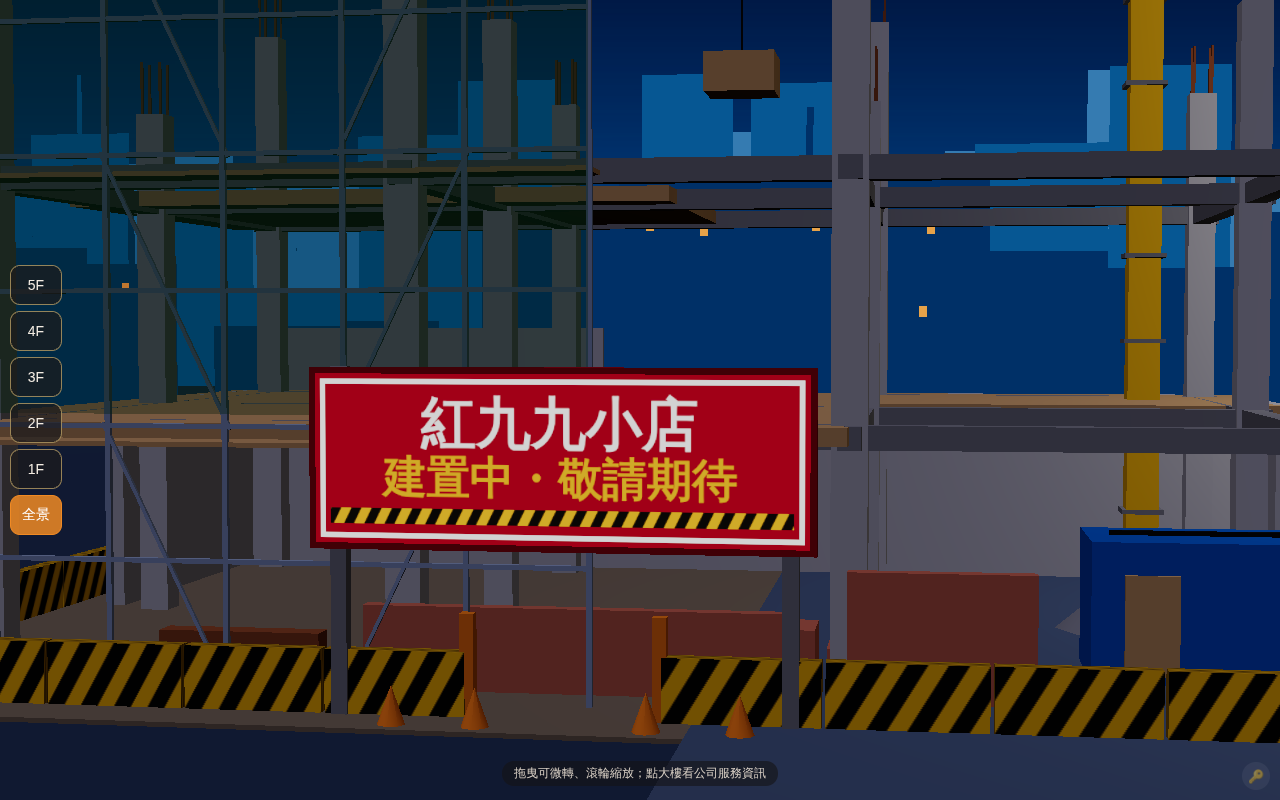
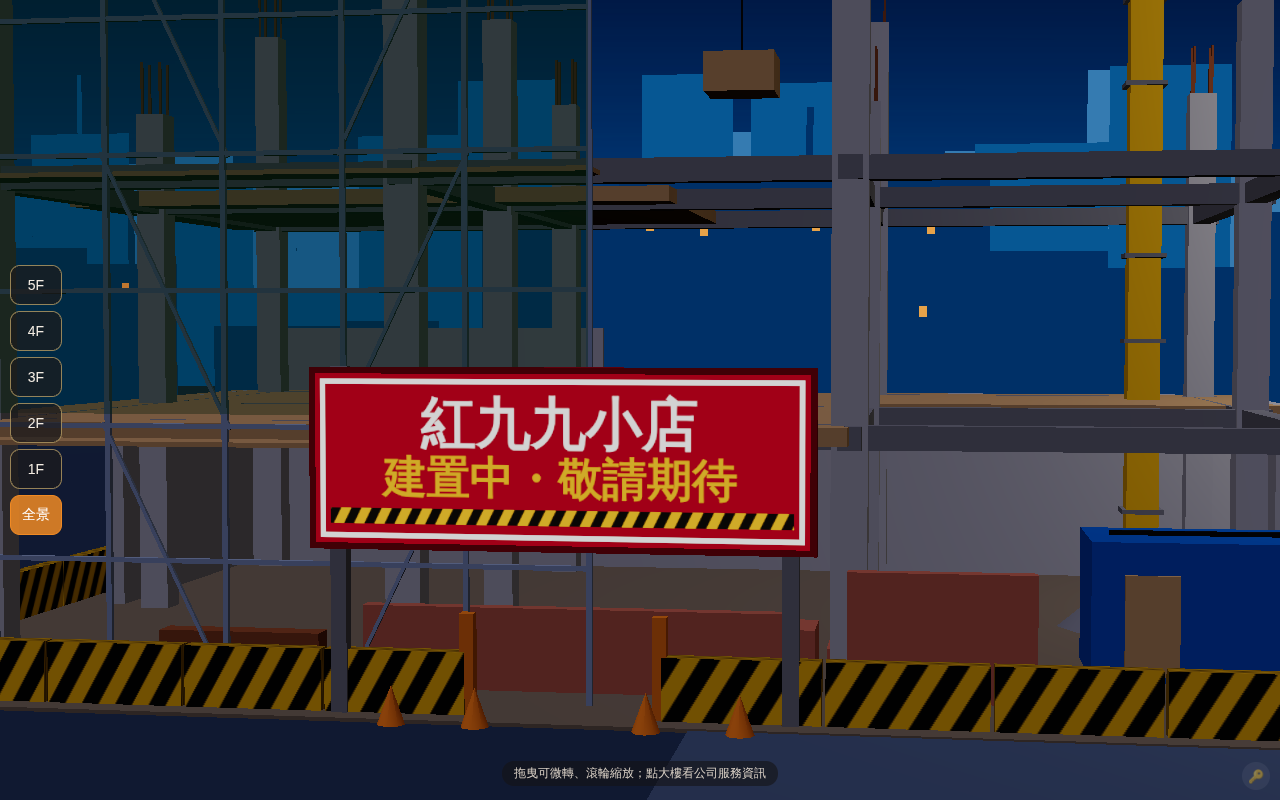
annex v0.2：通道與地墊墊高到大樓廣場上方，淡灰地面才看得見

Changed region(s): [[0.0, 0.875, 1.0, 0.9375], [0.5938, 0.6875, 0.6562, 0.8438], [0.8125, 0.7188, 0.8438, 0.8438]]

diff --git a/site/index.html b/site/index.html
@@ -553,7 +553,7 @@ function carPose(c) { c.g.position.set(c.home[0] - Math.max(0, c.d - 2), fH('1F'
     add('yel', .3, 2.4, .3, MX, y + MH + 1.7, MZ); add('blk', 1.2, 1.1, 1.2, MX + .1, y + MH - .75, MZ + .9); add('blk', .05, 5.4, .05, MX - 9, y + MH - 2.5, MZ); add('wood', 1.6, .9, 1.6, MX - 9, y + MH - 5.6, MZ);
     // 合併成每種材質一個 mesh
     const grp = new THREE.Group(); grp.name = 'ANNEX_HONG99';
-    const pad = new THREE.Mesh(B(BX1 - BX0 + .75, .08, BZ1 - BZ0 + 1.2), MT.pad); pad.position.set((BX0 - .75 + BX1) / 2, y - .17, (BZ0 + BZ1) / 2); pad.receiveShadow = true; pad.raycast = () => {}; grp.add(pad);
+    const pad = new THREE.Mesh(B(BX1 - BX0 + .75, .06, BZ1 - BZ0 + 1.2), MT.pad); pad.position.set((BX0 - .75 + BX1) / 2, y, (BZ0 + BZ1) / 2); pad.receiveShadow = true; pad.raycast = () => {}; grp.add(pad);
     Object.keys(G).forEach(k => { const m = new THREE.Mesh(mergeGeometries(G[k].map(g => { if (!g.index) return g; return g; })), MT[k]); m.castShadow = false; m.receiveShadow = true; m.raycast = () => {}; grp.add(m); });
     // 建置中看板：立在大門上方兩根柱子上
     // v0.2：「紅九九小店」字高減半（170px → 85px），「建置中・敬請期待」維持 68px；板面縮小成 7.6 × 2.6 m（每 px = 0.01 m，副標實際大小不變）
@@ -565,7 +565,7 @@ function carPose(c) { c.g.position.set(c.home[0] - Math.max(0, c.d - 2), fH('1F'
     const sb = new THREE.Mesh(B(7.8, 2.8, .16), MT.red); sb.position.set(sx, sy, sz); sb.raycast = () => {}; grp.add(sb, sign);
     [-1, 1].forEach(s => { const p = new THREE.Mesh(B(.25, sy + 1.4, .25), MT.dark); p.position.set(sx + s * 3.5, (sy + 1.4) / 2 + y - .0, sz - .2); p.raycast = () => {}; grp.add(p); });
     // 兩棟之間的通道：淡淡的普通地面（只鋪地，不放任何東西），從前到後貫通；通道只在 passcar=1 除錯時才停一台車（車身朝前後）對照寬度
-    const lane = new THREE.Mesh(B(BX1 - WALLX + 1, .08, 26), L(0xCDD3DA)); lane.position.set((BX1 + WALLX - 1) / 2, y - .17, 1.5); lane.receiveShadow = true; lane.raycast = () => {}; grp.add(lane);
+    const lane = new THREE.Mesh(B(WALLX - 1 - BX1, .06, 26), L(0xCDD3DA)); lane.position.set((BX1 + WALLX - 1) / 2, y, 1.5); lane.receiveShadow = true; lane.raycast = () => {}; grp.add(lane);
     if (Q.get('passcar') && CARS.length) { const pc = CARS[0].g.clone(); pc.rotation.y = Math.PI / 2; pc.position.set((BX1 + WALLX) / 2, fH('1F'), +(Q.get('passcar')) > 1 ? +Q.get('passcar') : 3); pc.visible = true; pc.name = 'DEBUG_passcar'; grp.add(pc); }
     scene.add(grp); window.P7_annex = { grp, bounds: [BX0, BX1, BZ0, BZ1], sign: [sx, sy, sz], carW: CARW, margin: PMARG, pass: PASS, wallX: WALLX, passX: [BX1, WALLX] }; if (Q.get('dump')) { window.P7_scene = scene; window.P7_cars = CARS; } } }
 { // 1F 廁所：面對大樓左後方，後牆開一扇小門＋門外小房間（沒屋頂；正常視角被鎖看不到大樓後方）
